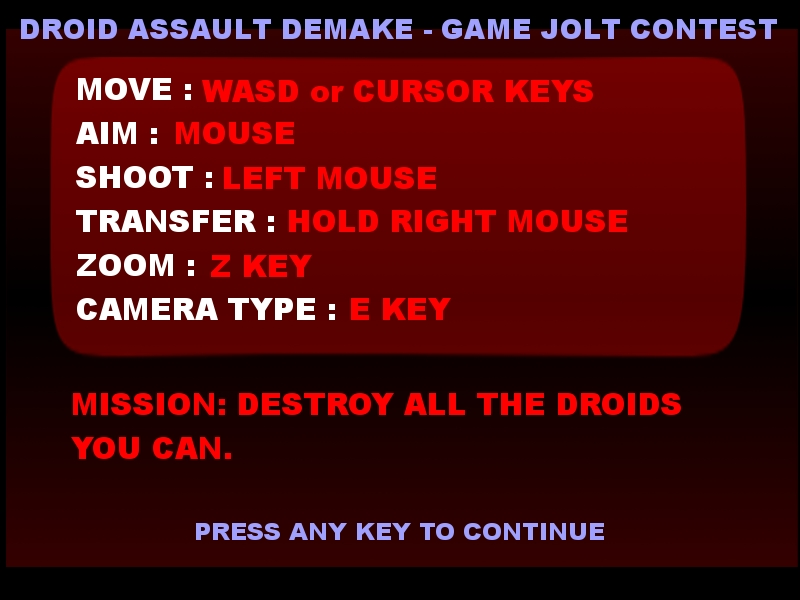
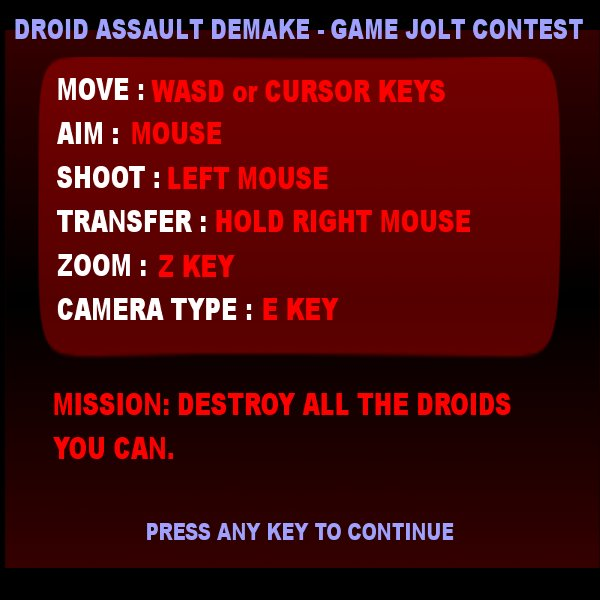
Complete - task : each droid you or your droids destroy, you earn points changed game resolution to 600x600 added label for player points
git-svn-id: file:///d/Documents/workspace/gemserksvn/var/svn/games@394 1dcdb8b7-3cac-4752-9c2b-54fd448f9028

diff --git a/dassault/trunk/main/src/main/java/com/gemserk/games/dassault/Game.java b/dassault/trunk/main/src/main/java/com/gemserk/games/dassault/Game.java
@@ -36,7 +36,7 @@ public class Game extends StateBasedGame {
 
 			AppGameContainer app = new AppGameContainer(game);
 
-			app.setDisplayMode(800, 600, false);
+			app.setDisplayMode(600, 600, false);
 			app.setAlwaysRender(true);
 
 			app.setMinimumLogicUpdateInterval(1);
